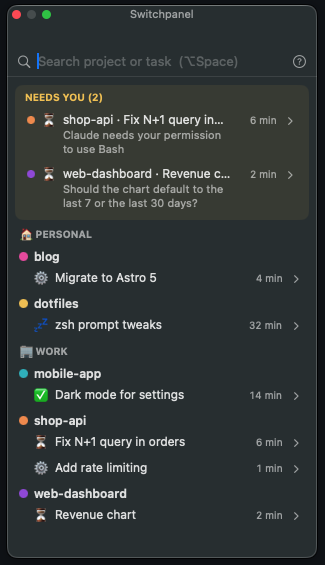
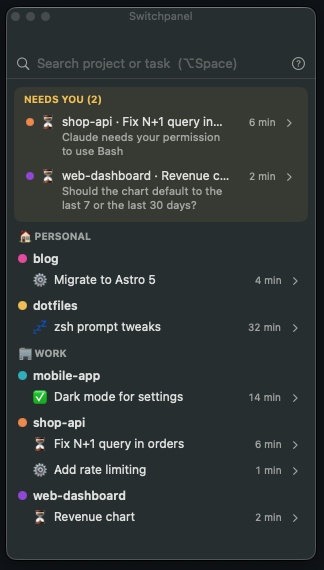
Use cleaner screenshot and show summaries in the README

diff --git a/README.es.md b/README.es.md
@@ -54,6 +54,8 @@ En el panel: clic en un proyecto para renombrarlo, clic derecho para el color, p
 
 ## Resúmenes
 
+<p align="center"><img src="docs/summary.png" width="321" alt="Una sesión expandida: qué se hizo, qué espera Claude y los próximos pasos"></p>
+
 Vienen apagados. Si los activás, al terminar cada turno el hook corre `claude -p --model haiku` **con la misma cuenta de la sesión y sin `ANTHROPIC_API_KEY`**, así que usa la cuota de tu plan y no la API. Se activan con `./install.sh --summaries on` o en `~/.switchpanel/config.json`:
 
 ```json

diff --git a/README.md b/README.md
@@ -54,6 +54,8 @@ In the panel: click a project to rename it, right-click for colors, snooze a ses
 
 ## Summaries
 
+<p align="center"><img src="docs/summary.png" width="321" alt="An expanded session: what was done, what Claude is waiting for, and the next steps"></p>
+
 Off by default. When on, after each turn the hook runs `claude -p --model haiku` **with the same account as the session and without `ANTHROPIC_API_KEY`**, so it uses your plan's quota, not the API. Turn them on with `./install.sh --summaries on` or in `~/.switchpanel/config.json`:
 
 ```json
